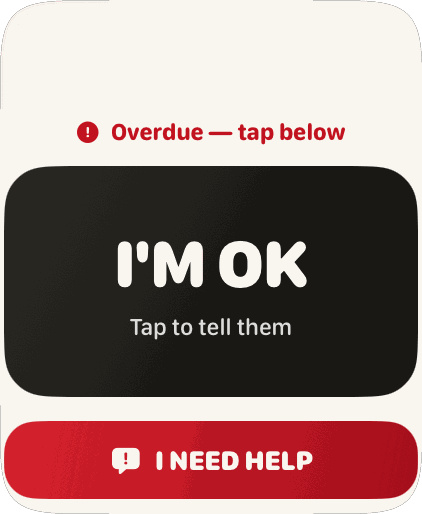
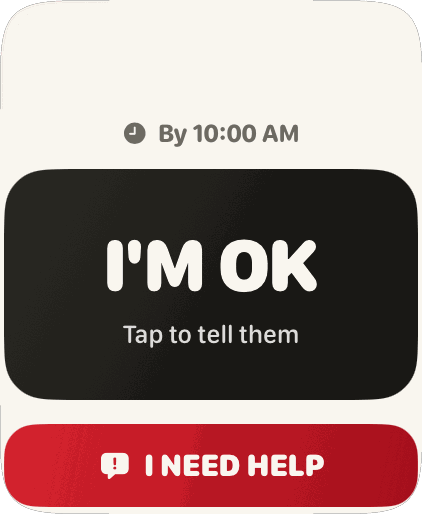
Enterprise pricing, repeat check-ins, and the countdown
Three provider boxes matching the new rates: $249.99 per location per month
flat, $9.99 per client with a $200 floor to 500 clients, and 1,000+ quoted. The
portal's billing page and its invoice history moved to the same numbers — a
demo quoting $17.00 per client under a page advertising $9.99 is the kind of
detail a prospect notices and nobody else does. At 14 clients the floor is the
bill, so the demo invoices read $200.

The hero demo now shows the countdown beside the deadline and the green card
stays tappable, because that is what the app does.

Screenshots regenerated through the whole chain. `round_devices.py` — the step
that produces what the WEBSITE serves — was missed on the first pass, so the
site briefly showed a build of the app from before today's changes while every
script reported success. Added to the documented chain in the README with a
note about why it is the easy one to forget: skipping it is silent.

diff --git a/enterprise.html b/enterprise.html
@@ -268,7 +268,7 @@
                 <td class="yes">~3 minutes on a visit you’re already making</td></tr>
             <tr><td><strong>Cost</strong></td>
                 <td class="no">$25–60 per client, per month</td>
-                <td class="yes">$1–3 per client, per month</td></tr>
+                <td class="yes">From $9.99 per client, per month</td></tr>
             <tr><td><strong>Worn / used?</strong></td>
                 <td class="no">Refusal is the classic failure mode</td>
                 <td class="yes">No stigma; it is just a phone</td></tr>
@@ -403,38 +403,42 @@
       <p class="eyebrow" style="justify-content:center">Plans</p>
       <h2 class="h1">Priced per member, per month.</h2>
       <p class="lead" style="margin-top:1rem">
-        In US dollars, billed annually except on the pilot. No hardware, no
-        setup fee, no per-alert charges.
+        In US dollars. No hardware, no setup fee, no per-alert charges. Pick
+        whichever shape suits you — a flat rate per office, or a rate that
+        tracks the roster.
       </p>
     </div>
 
     <div class="grid grid--3">
       <div class="card reveal">
-        <span class="chip chip--brass">Pilot</span>
-        <h3 class="h3" style="margin-top:1rem">One location</h3>
-        <p class="price" style="color:var(--on-night);margin:1rem 0 .25rem">$150
-          <small style="color:var(--on-night-muted)">/ month</small></p>
-        <p class="small">Up to 50 clients. Month to month, cancel whenever.</p>
+        <span class="chip chip--brass">Per location</span>
+        <h3 class="h3" style="margin-top:1rem">One office, everyone in it</h3>
+        <p class="price" style="color:var(--on-night);margin:1rem 0 .25rem">$249.99
+          <small style="color:var(--on-night-muted)">/ location / month</small></p>
+        <p class="small">Flat. Every client that office looks after is included,
+          however many that becomes.</p>
         <hr class="hr">
         <ul class="tick-list small">
           <li>The full dashboard</li>
           <li>Alerts to family and to your coordinator</li>
-          <li>We help you enrol the first ten clients</li>
-          <li>A 60-day review with the numbers in front of you</li>
+          <li>Unlimited clients at that location</li>
+          <li>We help you enrol the first ten</li>
+          <li>Predictable — it does not move as you grow</li>
         </ul>
         <a class="btn btn--ghost btn--sm" href="contact.html?intent=enterprise"
-           style="width:100%;margin-top:1.25rem">Start a pilot</a>
+           style="width:100%;margin-top:1.25rem">Start a location</a>
       </div>
 
       <div class="card reveal" style="border-color:var(--brass)">
-        <span class="chip">Growth</span>
-        <h3 class="h3" style="margin-top:1rem">A whole agency</h3>
-        <p class="price" style="color:var(--on-night);margin:1rem 0 .25rem">$2.50
+        <span class="chip">Per client</span>
+        <h3 class="h3" style="margin-top:1rem">Pay for who you cover</h3>
+        <p class="price" style="color:var(--on-night);margin:1rem 0 .25rem">$9.99
           <small style="color:var(--on-night-muted)">/ client / month</small></p>
-        <p class="small">51–500 clients, billed annually. $150 a month minimum.</p>
+        <p class="small"><strong>$200 a month minimum</strong>, up to 500 clients.
+          Below about 20 clients the minimum is what you pay.</p>
         <hr class="hr">
         <ul class="tick-list small">
-          <li>Everything in Pilot</li>
+          <li>Everything in Per location</li>
           <li>Multiple territories and locations</li>
           <li>On-call schedule and escalation rules</li>
           <li>Reporting and the exportable audit trail</li>
@@ -445,21 +449,22 @@
       </div>
 
       <div class="card reveal">
-        <span class="chip chip--brass">Network</span>
-        <h3 class="h3" style="margin-top:1rem">Many offices</h3>
-        <p class="price" style="color:var(--on-night);margin:1rem 0 .25rem">From $1.50
-          <small style="color:var(--on-night-muted)">/ client / month</small></p>
-        <p class="small">500+ clients, franchise networks, multi-site operators.</p>
+        <span class="chip chip--brass">Enterprise</span>
+        <h3 class="h3" style="margin-top:1rem">1,000+ clients</h3>
+        <p class="price" style="color:var(--on-night);margin:1rem 0 .25rem"
+           style="font-size:2.4rem">Let’s talk</p>
+        <p class="small">Franchise networks and multi-site operators. Priced
+          against your actual roster rather than a table.</p>
         <hr class="hr">
         <ul class="tick-list small">
-          <li>Everything in Growth</li>
+          <li>Everything in Per client</li>
           <li>Per-office rollup and network-wide reporting</li>
           <li>A network rate your offices inherit</li>
           <li>A named contact, and a rollout plan per office</li>
           <li>We will work through your security review with you</li>
         </ul>
         <a class="btn btn--ghost btn--sm" href="contact.html?intent=enterprise"
-           style="width:100%;margin-top:1.25rem">Talk to us</a>
+           style="width:100%;margin-top:1.25rem">Contact us for pricing</a>
       </div>
     </div>
 

diff --git a/assets/pruuf.js b/assets/pruuf.js
@@ -183,7 +183,7 @@ function initHeroDemo() {
     caption.textContent = 'Tap I’M OK — and watch this phone.';
     feed.innerHTML = `<p class="small muted mb-0" style="padding:.5rem 0">
         Margaret’s daughter, two states away. Her phone is quiet.</p>`;
-    screen.innerHTML = chrome('Check in by 10:00 AM') + `
+    screen.innerHTML = chrome('Check in by 10:00 AM · 1h 56m left') + `
       <button class="app-big is-inviting" type="button" id="demo-imok">
         <span class="app-big-title">I'M OK</span>
         <span class="app-big-sub">Tap to tell your loved ones</span>
@@ -195,13 +195,16 @@ function initHeroDemo() {
   function sceneCheckedIn() {
     clear();
     caption.textContent = 'That’s the whole app. Every day, one tap.';
-    screen.innerHTML = chrome('Check in by 10:00 AM', 'DONE TODAY') + `
-      <div class="app-big app-big--done fade-swap">
+    // Still a button, and still tappable — checking in again is the point.
+    screen.innerHTML = chrome('Next check-in tomorrow at 10:00 AM', 'DONE TODAY') + `
+      <button class="app-big app-big--done fade-swap" type="button" id="demo-imok">
         <span class="app-tick">${ICON.check}</span>
         <span class="app-big-title app-big-title--small">Thanks for<br>checking in</span>
         <span class="app-big-sub app-big-sub--strong">
           Your next check-in is tomorrow at 10:00 AM.</span>
-      </div>` + footer();
+        <span class="app-big-sub" style="opacity:.8;font-size:calc(var(--w) * .042)">
+          Checked in at 8:04 AM · tap to say so again</span>
+      </button>` + footer();
     wire();
 
     after(320, () => {
@@ -220,7 +223,7 @@ function initHeroDemo() {
     caption.textContent = 'This part runs on our servers — not on her phone.';
     feed.innerHTML = `<p class="small muted mb-0" style="padding:.5rem 0">
         10:00 AM. Nothing has been tapped.</p>`;
-    screen.innerHTML = chrome('Check in by 10:00 AM') + `
+    screen.innerHTML = chrome('Check in by 10:00 AM · 15m late') + `
       <div class="app-big" style="opacity:.4">
         <span class="app-big-title">I'M OK</span>
         <span class="app-big-sub">Tap to tell your loved ones</span>
@@ -259,7 +262,7 @@ function initHeroDemo() {
   function sceneHelp() {
     clear();
     caption.textContent = 'Tapped by mistake? Cancel it and nobody is told a thing.';
-    screen.innerHTML = chrome('Check in by 10:00 AM') + `
+    screen.innerHTML = chrome('Check in by 10:00 AM · 1h 56m left') + `
       <div class="app-big app-big--help fade-swap">
         <span class="app-tick">${ICON.bellBig}</span>
         <span class="app-big-title app-big-title--small">Your loved ones<br>have been told</span>
@@ -282,7 +285,10 @@ function initHeroDemo() {
    *  so a new scene cannot forget one and leave a dead button in the demo. */
   function wire() {
     const ok = $('#demo-imok', screen);
-    if (ok) ok.addEventListener('click', sceneCheckedIn);
+    if (ok) ok.addEventListener('click', () => {
+      caption.textContent = 'Checked in again — they’ll be told each time.';
+      sceneCheckedIn();
+    });
     const help = $('#demo-help', screen);
     if (help && !help.disabled) help.addEventListener('click', sceneHelp);
     const loved = $('#demo-loved', screen);

diff --git a/dashboard/index.html b/dashboard/index.html
@@ -383,10 +383,10 @@ const ALERTS = [
   {id:"a7", client:"c9", kind:"help", at:"14:20", date:"6 days ago", status:"resolved", who:"Tom Okafor", note:"Fall in kitchen, no injury. Physician notified."},
 ];
 const INVOICES = [
-  {id:"INV-2043", date:"Aug 1, 2026", amt:"$238.00", period:"Aug 2026", status:"Paid"},
-  {id:"INV-2011", date:"Jul 1, 2026", amt:"$238.00", period:"Jul 2026", status:"Paid"},
-  {id:"INV-1984", date:"Jun 1, 2026", amt:"$221.00", period:"Jun 2026", status:"Paid"},
-  {id:"INV-1955", date:"May 1, 2026", amt:"$221.00", period:"May 2026", status:"Paid"},
+  {id:"INV-2043", date:"Aug 1, 2026", amt:"$200.00", period:"Aug 2026", status:"Paid"},
+  {id:"INV-2011", date:"Jul 1, 2026", amt:"$200.00", period:"Jul 2026", status:"Paid"},
+  {id:"INV-1984", date:"Jun 1, 2026", amt:"$200.00", period:"Jun 2026", status:"Paid"},
+  {id:"INV-1955", date:"May 1, 2026", amt:"$200.00", period:"May 2026", status:"Paid"},
 ];
 const AUDIT = [
   {at:"09:10", who:"Mark Ellis", what:"Viewed Margaret Hale", kind:"accent"},
@@ -1056,7 +1056,7 @@ function viewReports(){
 
 function viewBilling(){
   return `
-  <div class="page-head"><div class="grow"><h1>Billing</h1><p>One price per client monitored. Staff seats are free and unlimited.</p></div>
+  <div class="page-head"><div class="grow"><h1>Billing</h1><p>$9.99 per client monitored, $200 a month minimum. Staff seats are free and unlimited.</p></div>
   <button class="btn" data-act="update-card">Update payment method</button></div>
   <div class="split">
     <div style="display:flex;flex-direction:column;gap:12px">
@@ -1064,8 +1064,8 @@ function viewBilling(){
         <div style="display:flex;align-items:flex-start;gap:14px;flex-wrap:wrap">
           <div class="grow" style="flex:1"><div class="eyebrow">Current plan</div>
             <h2 style="margin-top:3px">Care — 14 clients</h2>
-            <p class="muted" style="font-size:13px;margin-top:3px">$17.00 per client per month. Billed on the 1st of each month.</p></div>
-          <div style="text-align:right"><div class="num" style="font-size:28px;font-weight:900">$238</div><div class="faint" style="font-size:11.5px">next on Sep 1</div></div>
+            <p class="muted" style="font-size:13px;margin-top:3px">$9.99 per client per month, $200 minimum. Billed on the 1st of each month.</p></div>
+          <div style="text-align:right"><div class="num" style="font-size:28px;font-weight:900">$200</div><div class="faint" style="font-size:11.5px">next on Sep 1</div></div>
         </div>
         <div style="display:flex;gap:8px;margin-top:14px;flex-wrap:wrap">
           <button class="btn" data-act="change-plan">Change plan</button>

diff --git a/index.html b/index.html
@@ -195,6 +195,10 @@
             <li>No account. No password. No username to remember.</li>
             <li>One button, big enough to hit without your glasses.</li>
             <li>A reminder half an hour before your time, so it’s hard to forget.</li>
+            <li><strong>Check in as often as you like.</strong> Once is enough,
+              but the button never locks — tap it again after lunch or before
+              bed and they’ll be told again. It also counts down to your time,
+              so you always know where you stand.</li>
             <li>Nothing else on the screen to press by mistake.</li>
             <li>It never shows anybody where you are.</li>
             <li><strong>iPhone, iPad and Apple Watch</strong> — check in from
@@ -284,7 +288,8 @@
         <h3 class="h3">Tap once a day</h3>
         <p class="muted mb-0" style="margin-top:.5rem">
           Everyone gets told you’re fine. That’s the entire routine, and it
-          takes about a second.
+          takes about a second — tap again later if you want to, as often as
+          you like.
         </p>
       </div>
     </div>
@@ -546,6 +551,18 @@
             about a week. Families usually agree on a check-in time slightly
             later than the real one, so an ordinary lie-in doesn’t start
             anything.</p>
+        </div>
+      </details>
+      <details>
+        <summary>Can she check in more than once a day?</summary>
+        <div class="faq-body">
+          <p>Yes, as many times as she wants. One tap satisfies the day, but
+            the button never locks — plenty of people like to say so again
+            after lunch or before bed, and everyone connected is told each
+            time.</p>
+          <p>The screen also counts down to her time — “Check in by 10:00 AM ·
+            1h 56m left” — so she is never guessing how long she has. Once
+            she’s checked in it switches to when the next one is due.</p>
         </div>
       </details>
       <details>

diff --git a/README.md b/README.md
@@ -68,12 +68,20 @@ landing page becomes a picture of an app that no longer exists.
 ## After the app changes
 
 ```bash
-AppStore/capture.sh ios            # re-capture from the current app
-python3 marketing/render_devices.py   # transparent framed renders
-python3 site/build_assets.py          # web-weight copies for the site
+AppStore/capture.sh ios              # re-capture from the current app
+python3 AppStore/frame_devices.py    # App Store frames (opaque, exact canvas)
+python3 AppStore/round_devices.py    # ← what the WEBSITE uses. Do not skip.
+python3 marketing/render_devices.py  # transparent framed renders
+python3 site/build_assets.py         # web-weight copies for the site
 cp portal/index.html site/dashboard/index.html   # if the dashboard changed
 python3 site/check.py
 ```
+
+**`round_devices.py` is the easy one to forget**, and forgetting it is silent:
+the framed App Store set updates, the site keeps serving the previous build's
+screens, and everything reports success. It happened once already — the site
+showed an older version of the app for a full pipeline run before anybody
+looked at the picture.
 
 ## Commits push themselves
 
